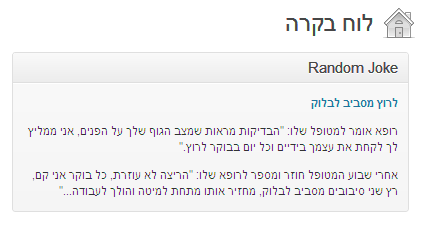
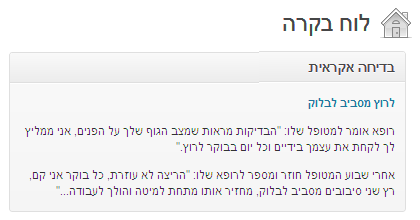
update
git-svn-id: https://plugins.svn.wordpress.org/bdihot/trunk@546124 b8457f37-d9ea-0310-8a92-e5e31aec5664

diff --git a/bdihot.php b/bdihot.php
@@ -44,7 +44,7 @@ function bdihot_translations() {
 // Set/Get plugin options
 function bdihot_options() {
 	$defaults = array(
-		'title' => __( 'Random Joke', 'Bdihot' ),
+		'title' => __( 'Random Joke', 'bdihot' ),
 		'jokes_number' => 1,
 	);
 	if ( ( !$options = get_option( 'bdihot_random_joke' ) ) || !is_array( $options ) )
@@ -67,7 +67,7 @@ function bdihot_feed_cache_lifetime() {
 
 // Register dashboard widget
 function bdihot_add_dashboard_widget() {
-	wp_add_dashboard_widget( 'bdihot_dashboard_random_joke', __( 'Random Joke', 'Bdihot' ), 'bdihot_widget_output' );
+	wp_add_dashboard_widget( 'bdihot_dashboard_random_joke', __( 'Random Joke', 'bdihot' ), 'bdihot_widget_output' );
 }
 
 
@@ -88,7 +88,7 @@ function bdihot_widget_output() {
 	endif;
 
 	if ( $max_items == 0 ) {
-		echo __('No Jokes found.', 'Bdihot');
+		echo __('No Jokes found.', 'bdihot');
     } else {
 		foreach ( $rss_items as $item ) : 
 			echo '<p><a href="' . esc_url( $item->get_permalink() ) . '" title="' . $item->get_date( 'j F Y | g:i a' ) .'" target="_blank">' . esc_html( $item->get_title() ) . '</a></p>';
@@ -116,8 +116,8 @@ class Bdihot_Widget extends WP_Widget {
 	public function __construct() {
 		parent::__construct(
 	 		'bdihot_widget',
-			__( 'Random Joke', 'Bdihot' ),
-			array( 'description' => __( 'Displays Random Joke from Bdihot.co.il', 'Bdihot' ), )
+			__( 'Random Joke', 'bdihot' ),
+			array( 'description' => __( 'Displays Random Joke from Bdihot.co.il', 'bdihot' ), )
 		);
 	}
 
@@ -144,11 +144,11 @@ class Bdihot_Widget extends WP_Widget {
 			$title = $instance[ 'title' ];
 		}
 		else {
-			$title = __( 'Random Joke', 'Bdihot' );
+			$title = __( 'Random Joke', 'bdihot' );
 		}
 		?>
 		<p>
-		<label for="<?php echo $this->get_field_id( 'title' ); ?>"><?php _e( 'Title:', 'Bdihot' ); ?></label>
+		<label for="<?php echo $this->get_field_id( 'title' ); ?>"><?php _e( 'Title:', 'bdihot' ); ?></label>
 		<input class="widefat" id="<?php echo $this->get_field_id( 'title' ); ?>" name="<?php echo $this->get_field_name( 'title' ); ?>" type="text" value="<?php echo esc_attr( $title ); ?>" />
 		</p>
 		<?php
